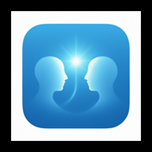
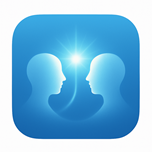
cambiado los iconos y demas

diff --git a/app/dashboard/page.tsx b/app/dashboard/page.tsx
@@ -209,7 +209,7 @@ function RequestStep({
     <Card className="p-6">
       <h2 className="text-2xl font-bold mb-4">Petición</h2>
       <p className="text-gray-600 mb-4">
-        ¿Qué acciones específicas quisiera que se realizaran ahora? Identifica qué
+        ¿Qué acciones o estrategias específicas quisiera que se realizaran ahora? Identifica qué
         podrías pedirte a ti mismo o a otros para cuidar de tu necesidad.
       </p>
 

diff --git a/public/sw.js b/public/sw.js
@@ -1,5 +1,5 @@
-const CACHE_NAME = 'mi-conexion-interna-v1';
-const STATIC_CACHE_NAME = 'static-v1';
+const CACHE_NAME = 'mi-conexion-interna-v2';
+const STATIC_CACHE_NAME = 'static-v2';
 
 // URLs principales para cachear
 const urlsToCache = [
